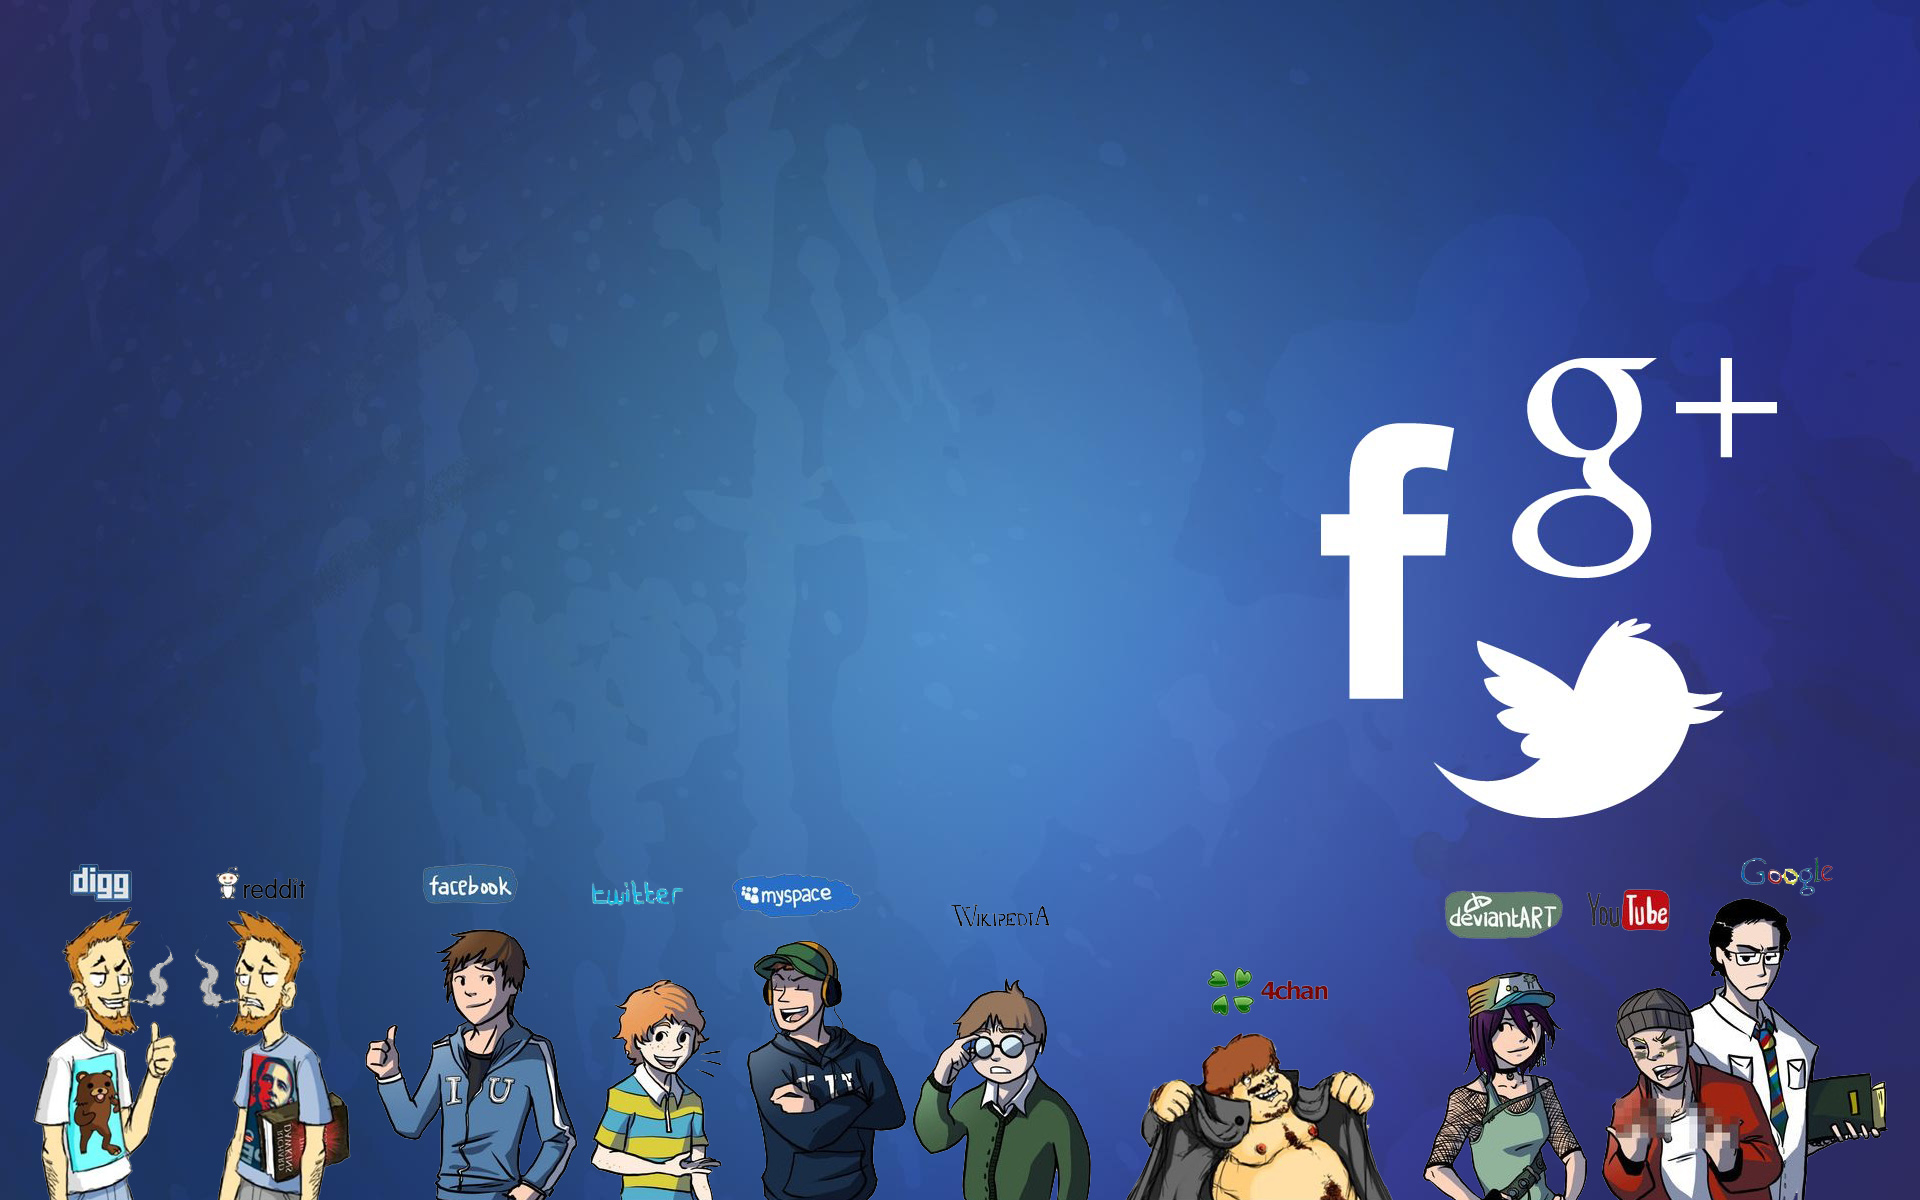
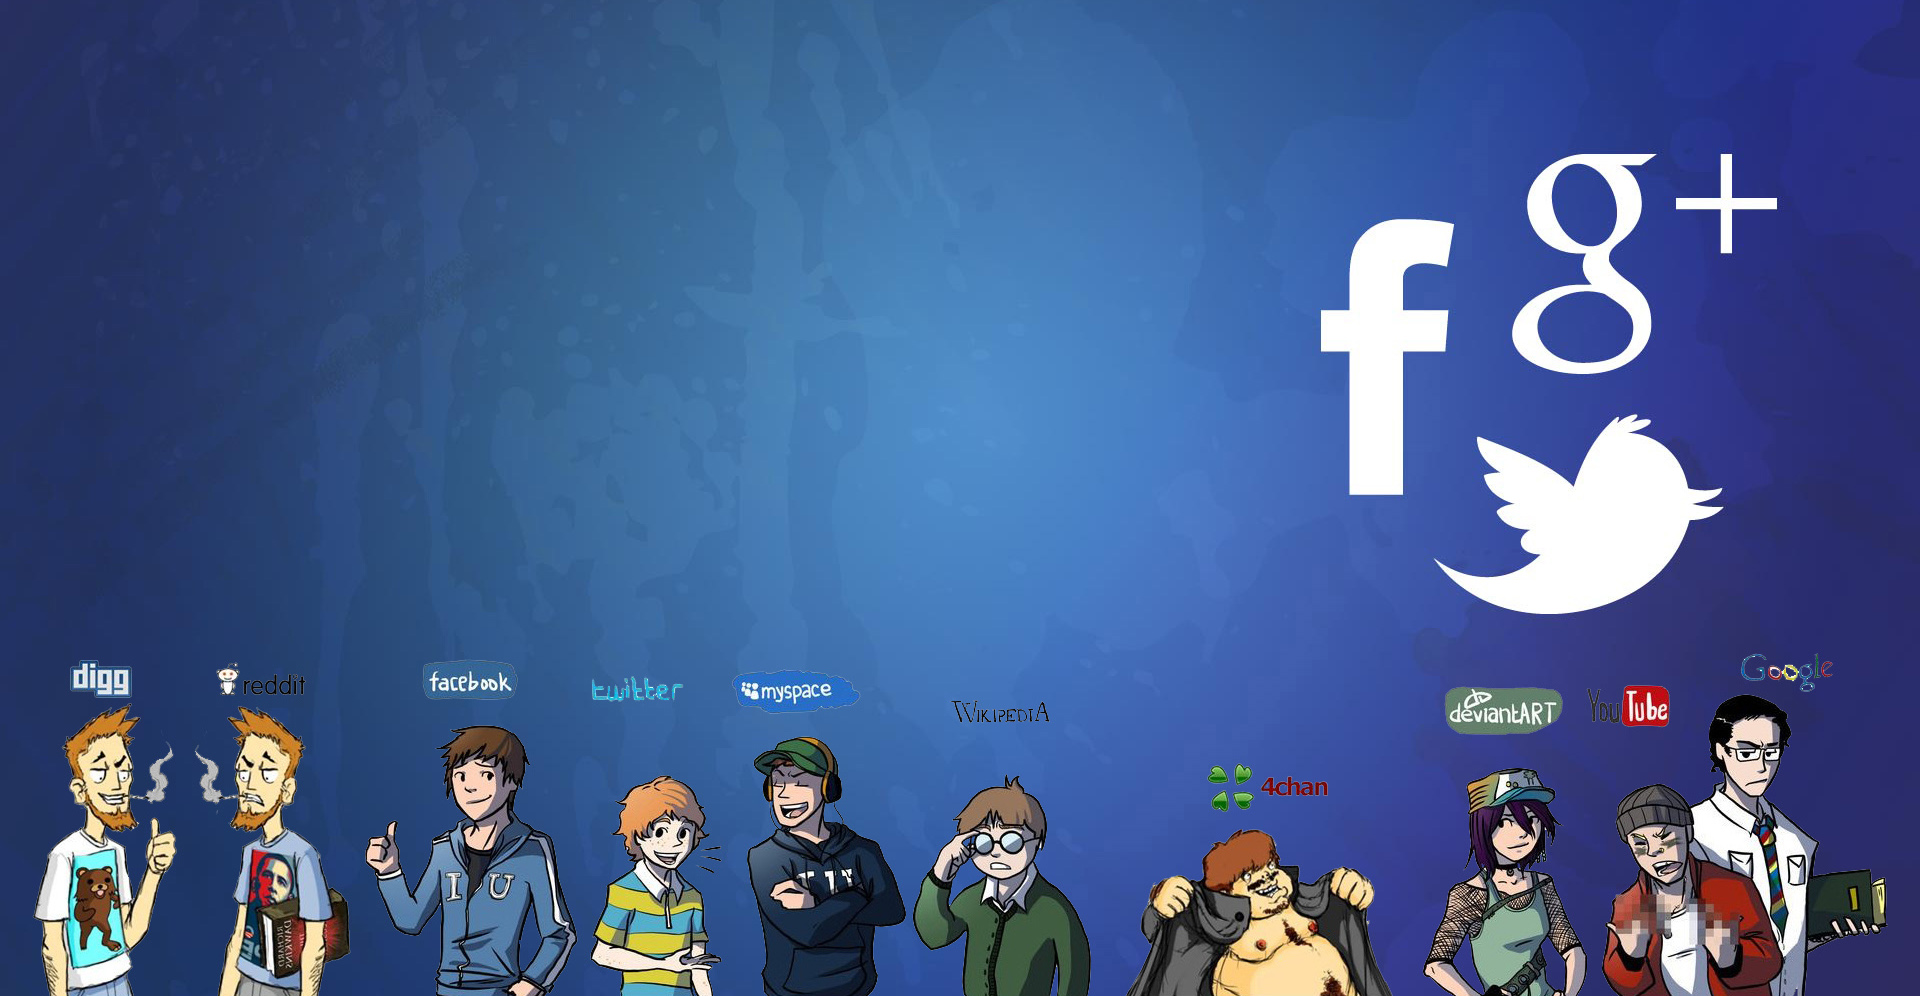
Modified dashboard.php file and back1.jpg file

diff --git a/dashboard.php b/dashboard.php
@@ -43,7 +43,8 @@ header("location:index.php");
 </head>
 <style>
 body{
-	background:url(images/back1.jpg);
+	background:url(images/back1.jpg) no-repeat;
+	background-size:cover;
 }
 .head{
 	text-align:right;
@@ -82,6 +83,7 @@ a:visited{
 		cursor:pointer;
 }
 </style>
+<script type="text/javascript" src="//s7.addthis.com/js/300/addthis_widget.js#pubid=ra-59eca4223791466c"></script> 
 <body>
 <div class="container-fluid" style="background:rgba(0,0,0,0.4);">
 
@@ -103,8 +105,7 @@ a:visited{
                 
                	<li class="active"><a href="welcome.php">DashBoard</a></li>
                 
-                <li><a href="../index.php" target="_blank">Visit to Website</a></li>
-                <li><a href="files.php">Upload your files</a></li>
+                <li><a href="share.php">Share your Post</a></li>
                 <li class="dropdown"><a class="dropdown-toggle" data-toggle="dropdown" href="#">Qualification</a>
                 
                 
@@ -115,7 +116,7 @@ a:visited{
                 
                 </li>
                 
-                <li><a href="visit.php">Industrial Visits</a></li>
+                <li><a href="refer.php">Refer to a Friend</a></li>
                 <li><a href="training.php">Industrial Trainings</a></li>
                 <li><a href="achievement.php">Achievements</a></li>
                 
@@ -164,6 +165,14 @@ a:visited{
 	}
 	}
         ?></marquee></h1></a>
+        
+        <center><h5><?php
+		
+		date_default_timezone_set("Asia/Calcutta");
+		echo "Today is " . date("Y-m-d");
+		echo "&nbsp;&nbsp;&nbsp;&nbsp;The time is " . date("h:i:s A");
+        
+		?></h5></center>
                         
                         </div>
                      
@@ -199,6 +208,14 @@ a:visited{
                <script type="text/javascript" src="http://100widgets.com/js_data.php?id=168"></script>
                
                 </div>
+                
+               <form> 
+               <div class="addthis_inline_share_toolbox"><input type="text" />
+                </div>
+                </form>
+                
+                <form>
+                
                 
               </div>
         	
